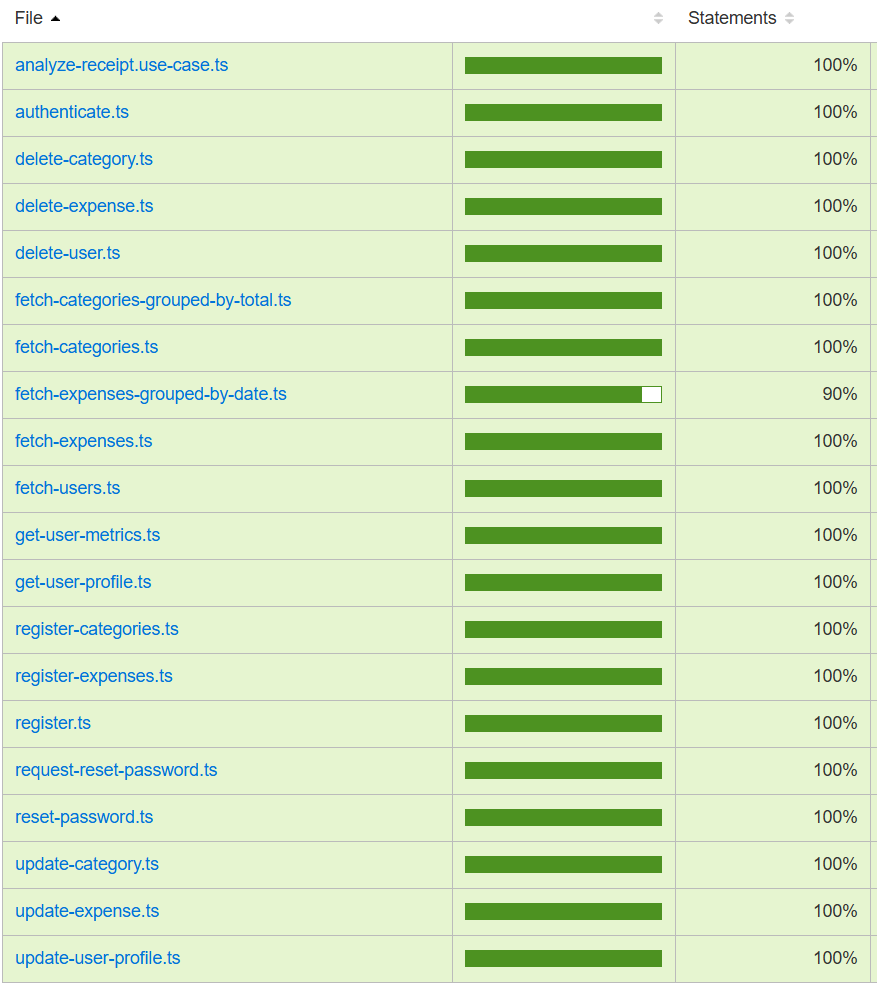
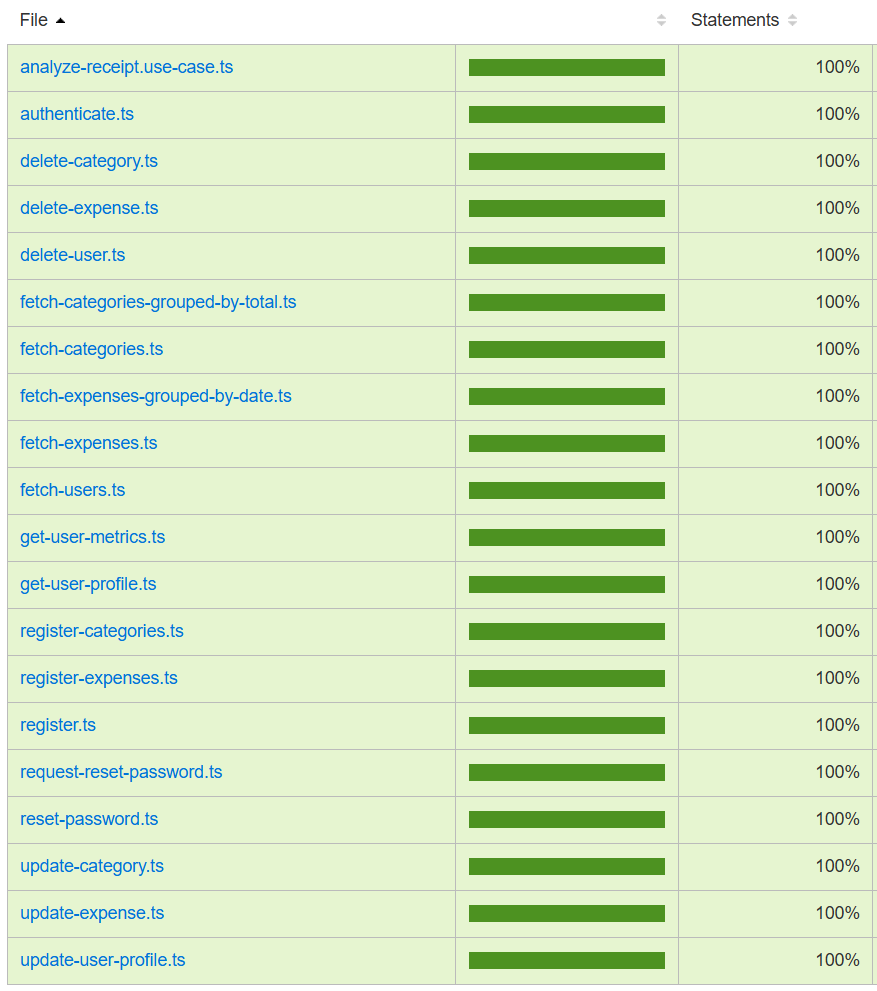
📚 docs: add update with task check and testing 100% coverage

Changed region(s): [[0.0, 0.0, 1.0, 0.999]]

diff --git a/README.md b/README.md
@@ -5,7 +5,9 @@
 - Software para gerenciamento financeiro que permite registrar despesas manualmente ou através da captura de comprovantes utilizando a câmera do dispositivo. O sistema oferece visualizações e análises dos gastos por dia, mês e ano.
 
 > 🚧 **Status v1:** Em desenvolvimento
+>
 > 🔗 **Production:** https://cycle-finance-app.vercel.app/sign-in
+>
 > 🔗 **Docs API:** https://cycle-finance-app-fcsp.onrender.com/docs
 
 ## Estrutura do Repositório
@@ -100,7 +102,9 @@
 - [x] O usuário não deve poder visualizar despesas de outros usuários;
 - [x] O usuário não deve poder atualizar despesas de outros usuários;
 - [x] O administrador pode visualizar todos os usuários;
-- [x] Ao deletar uma conta, todas as despesas e categorias vinculadas devem ser deletadas em cascata.
+- [x] Ao deletar uma conta, todas as despesas e categorias vinculadas devem ser deletadas em cascata;
+- [x] O usuário deve ter acesso aos termos de serviços/política de privacidade;
+- [x] O usuário deve ter acesso a documentação da API;
 
 ### Funcionalidades (FT)
 
@@ -120,12 +124,13 @@
 - [x] Filtro de pesquisa por category na tabela;
 - [x] Botão de remover filtros (limpar campos / realizar requisição novamente);
 - [x] Adicionar paginação na tabela de despesas;
+- [x] Preview do comprovante enviado;
+- [x] Acesso aos termos de serviços/privacidade;
 - [ ] Exibição dos dados no gráfico de gasto no período;
 - [ ] Loading para o gráfico de gasto no período;
 - [ ] Loading para o gráfico de categorias populares;
 - [ ] Personalizar alerta do checkbox (browser);
 - [ ] Upload de comprovante (imagem - arquivo) via form;
-- [x] Preview do comprovante enviado;
 
 ### Cobertura dos Testes Unitários
 
